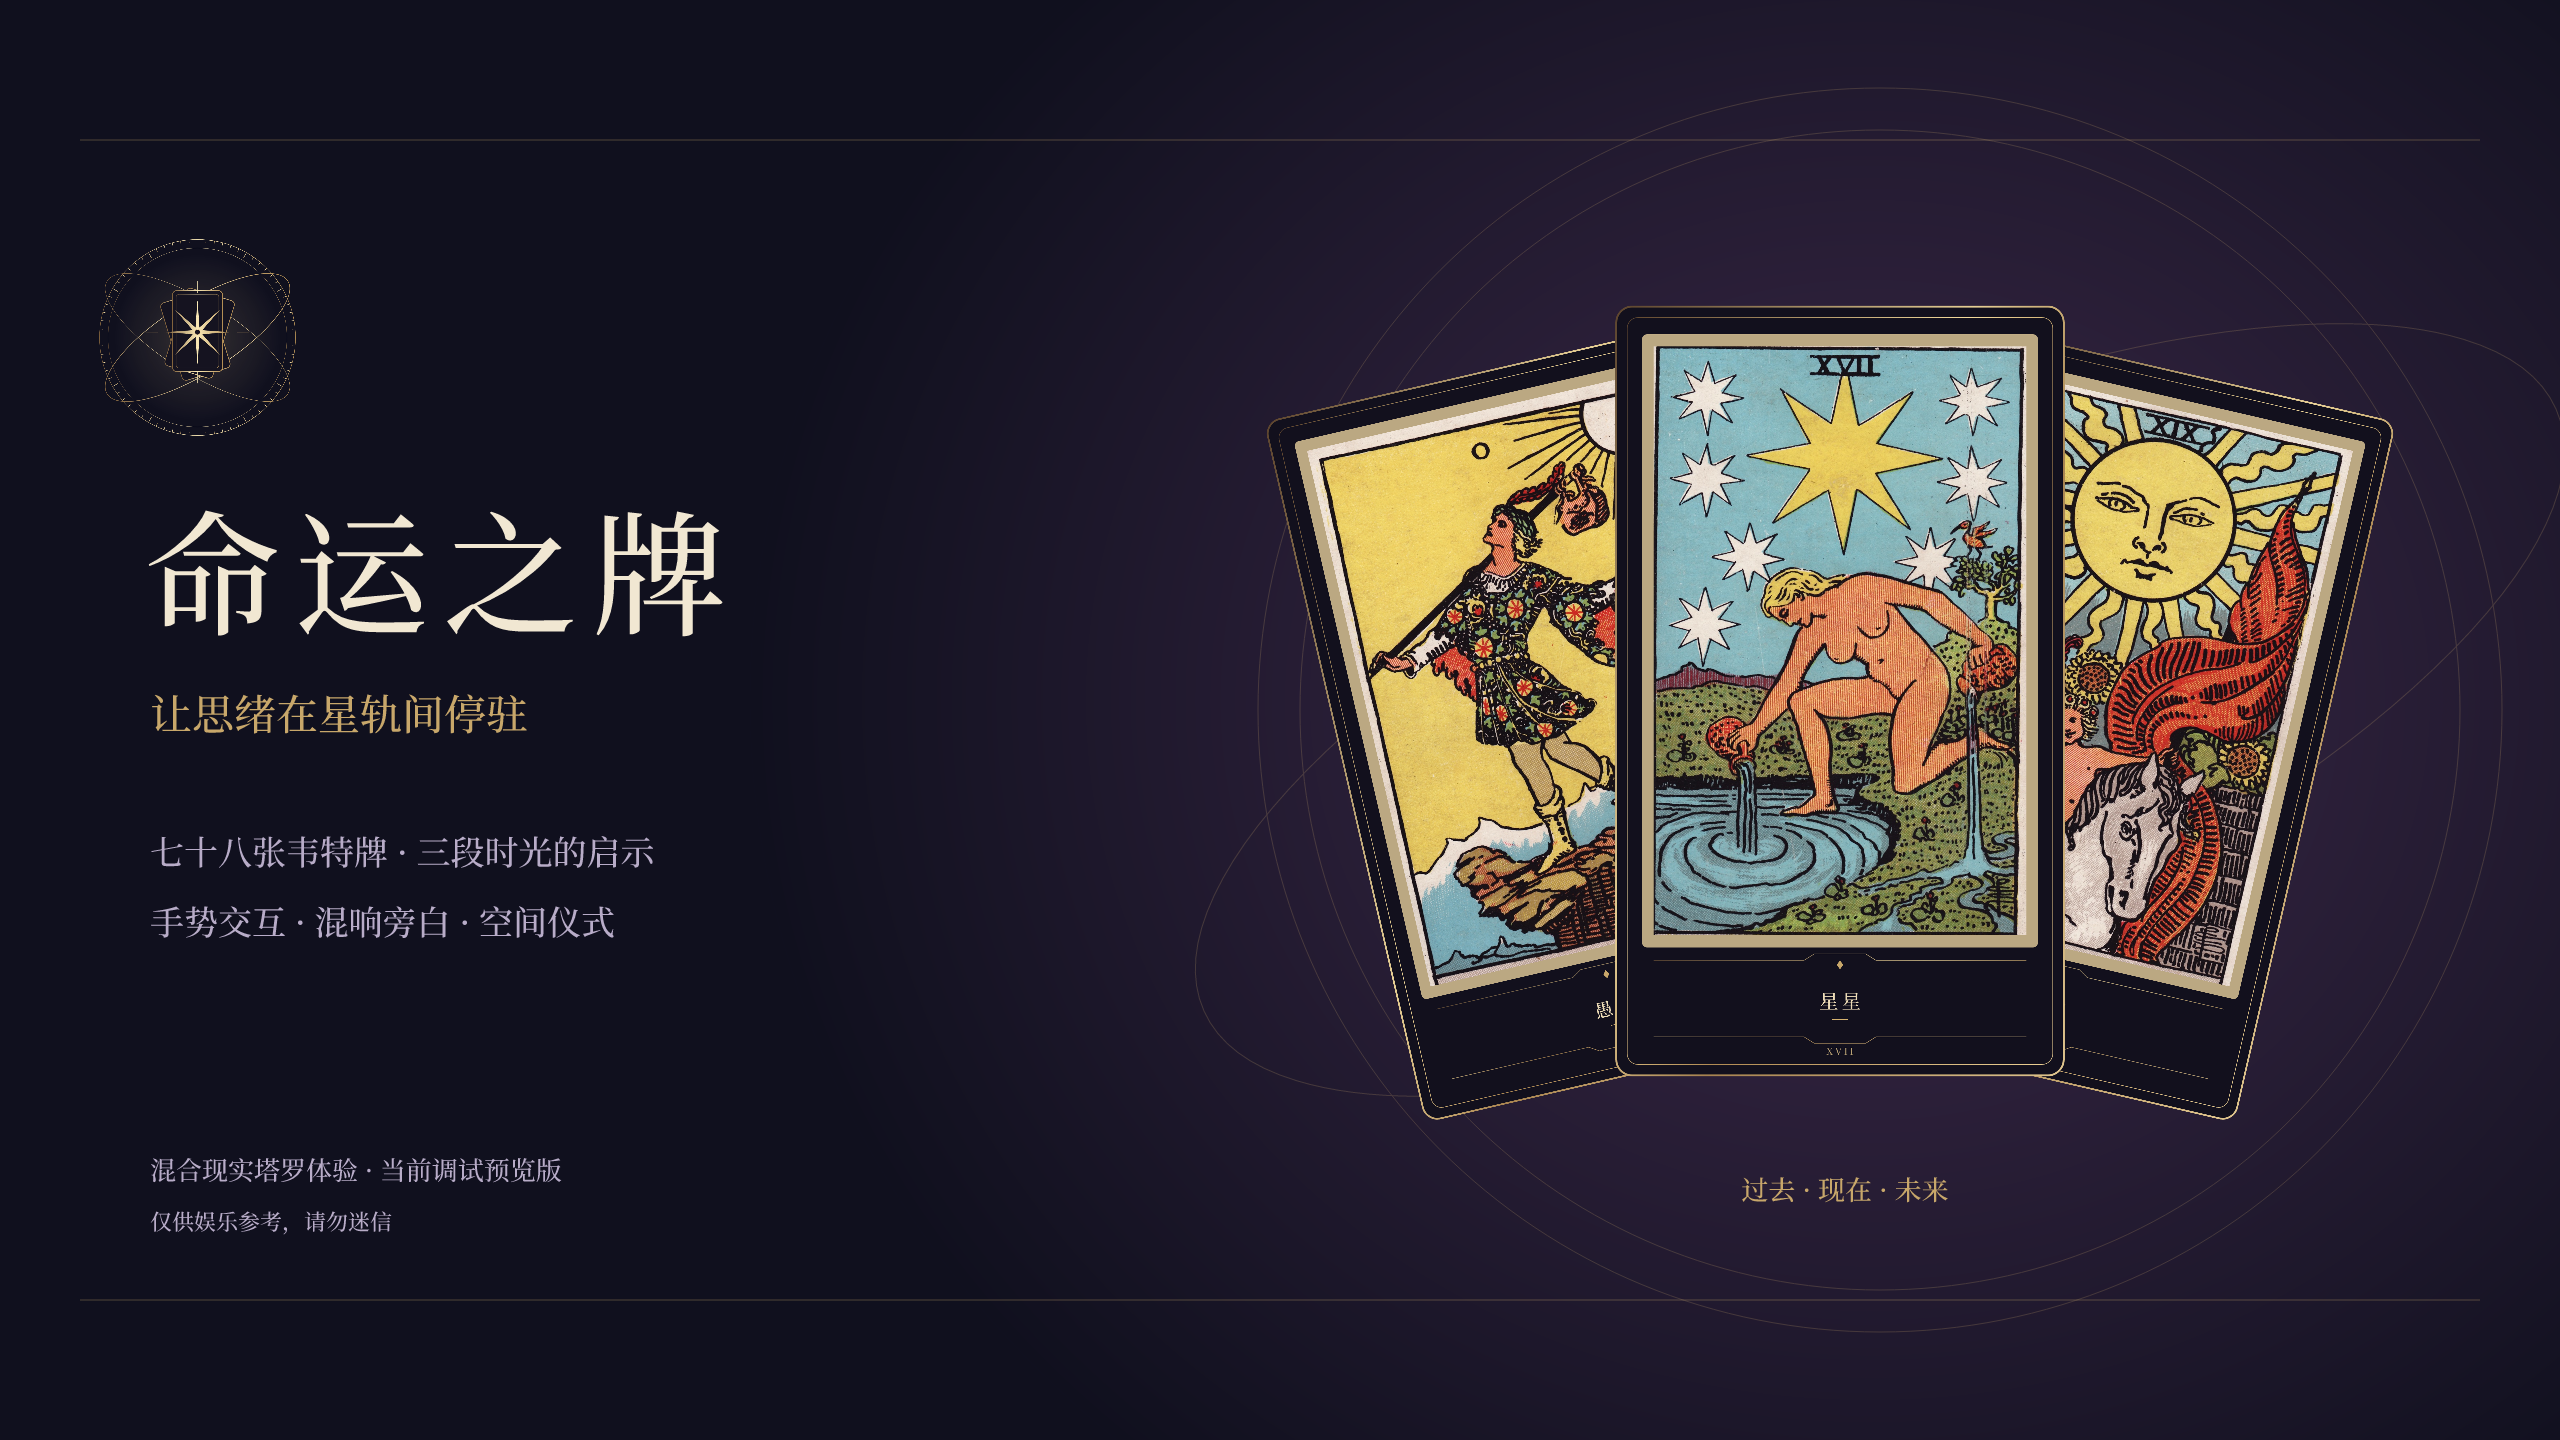
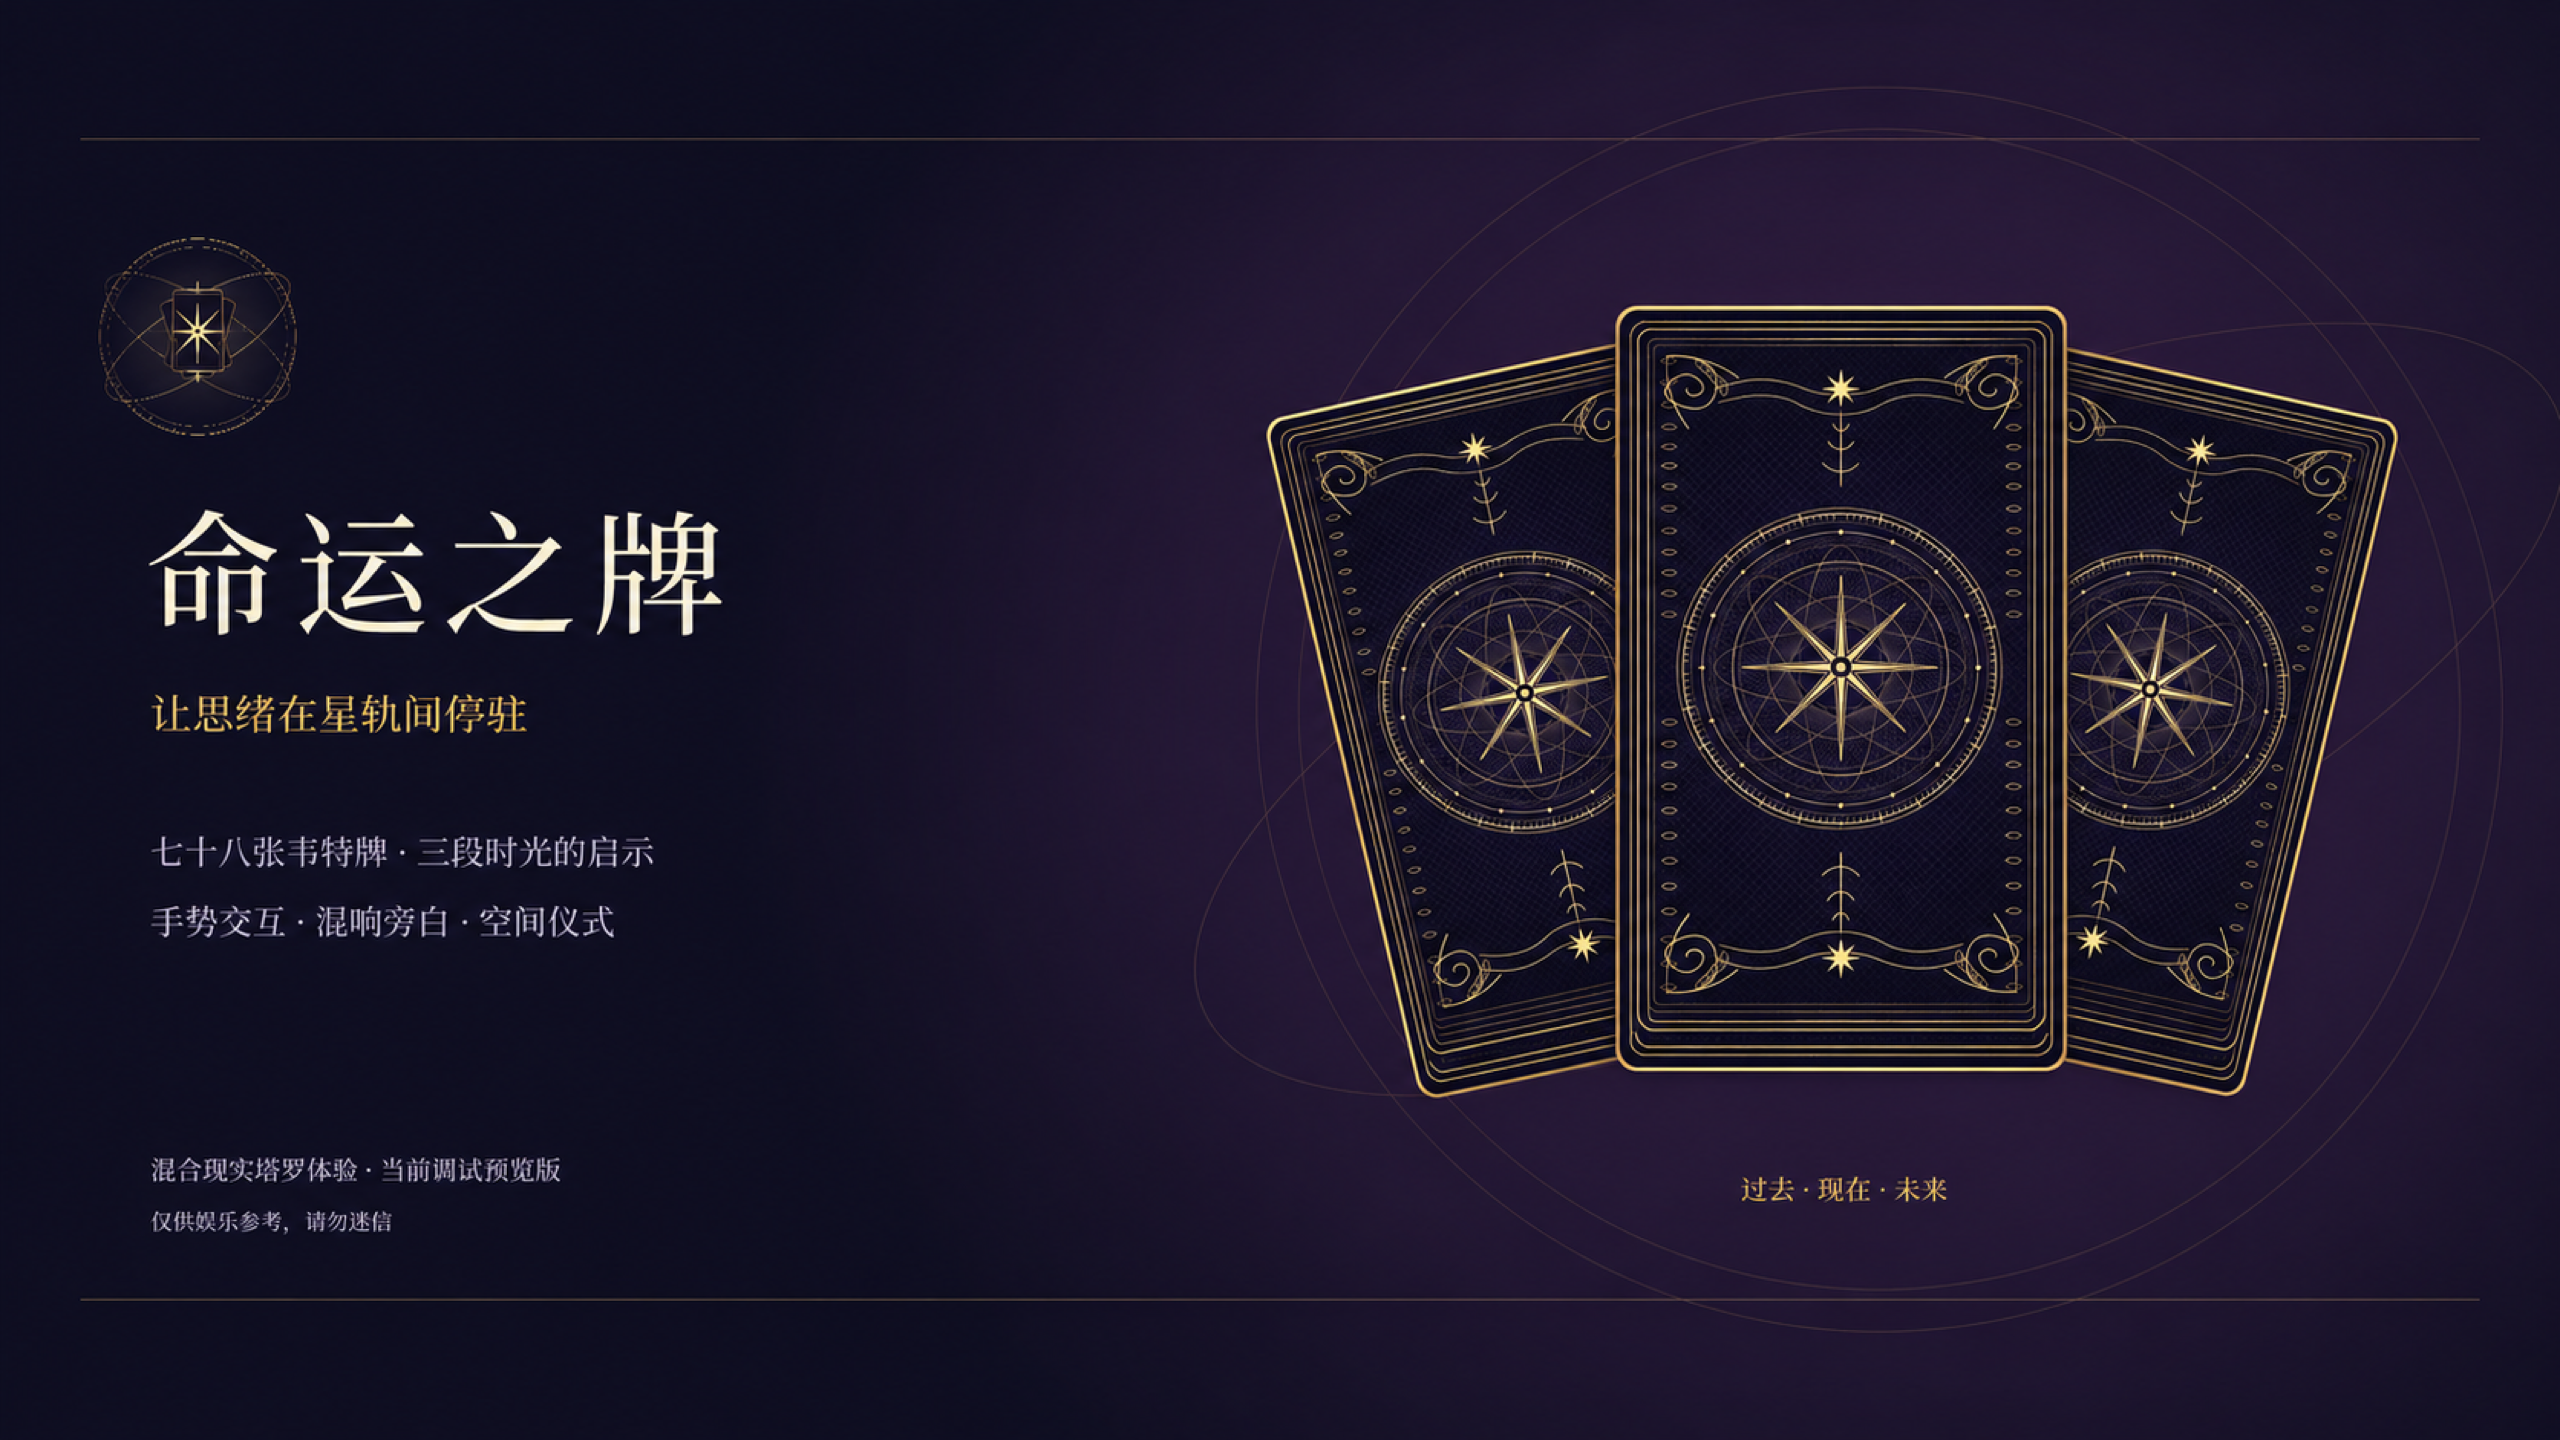
Replace submission artwork with card-back-only promotional images

diff --git a/docs/submission/填写指南.md b/docs/submission/填写指南.md
@@ -1,71 +1,39 @@
-# 命运之牌 · Vibe Lab 投稿填写指南
+# 命运之牌 · 投稿填写指南
 
-按Orbit Mission项目的同一份表单字段整理，日期2026-11-11。对应应用versionName1.0.1、versionCode2；当前交付为调试预览版。
+更新日期：2026-11-14。应用为1.0.7调试预览版（versionCode 8）；本次仅修订投稿素材。
 
-## 基本信息
-
-| 字段 | 建议填写 |
+| 字段 | 填写内容 |
 | --- | --- |
 | GitHub仓库 | https://github.com/DDDCC5/CardsOfFate |
-| 完整Commit ID | `091e1ca1b93d12b7317005e4b33fc03a52d90930` |
-| 技术栈 | PICO Spatial SDK；Kotlin / Android原生；Compose SpatialUI |
-| 内容类型 | 应用；进一步分类优先休闲娱乐/生活方式 |
-| 特性标签 | 混合现实、手势追踪、视线追踪（验收范围见下文） |
-| 版本名称 | V1.0.1 |
+| 应用源码Commit | `235aa9b9aba26e5b0855b8ce85f83e781e18d6b3` |
+| 版本 | V1.0.7 |
+| 包名 | com.example.cardsfate |
+| 技术栈 | Kotlin / SpatialUI Compose / PICO Spatial SDK BOM 6.1.9 |
+| 作品名称 | 中文表单填命运之牌；英文表单单独填Cards of Fate |
+| 特性标签 | 混合现实、手势追踪、视线追踪；按实际菜单匹配 |
+| 内容分类 | 优先休闲娱乐/生活方式；按实际菜单匹配 |
 | AI IDE | Codex |
-| 主要AI模型 | GPT-6.1 Sol；沿用Orbit中你已确认的型号，本项目如使用其他型号须修改 |
-| 队友 | 没有实际人类队友则留空 |
-| 作品名称 | 命运之牌；英文表单单独填Cards of Fate |
-| 内容标签 | 优先匹配休闲娱乐、塔罗、自我探索等实际选项 |
+| 主要AI模型 | GPT-6.1 Sol；沿用Orbit项目已确认字段，以实际会话为准 |
+| 队友 | 无实际人类队友则留空 |
 
-平台下拉菜单未展开，分类与标签须按实际可选项匹配。MR、手部与眼动已接入；手部和眼动在本轮实机返回SUPPORTED，但完整仪式尚未实机验收。不填写“手柄”“Avatar”“表情模拟”“混合现实捕捉”。
+完整可复制文案见填写字段.json、作品简介.txt、版本说明.txt和一句话简介.txt。
 
-## 一句话简介（39字符，限制80）
+## 审核图片替换
 
-在真实空间中以双手洗牌、抽取三张韦特塔罗牌，伴随混响旁白回看过去、此刻与未来。
+| 用途 | 文件 | 说明 |
+| --- | --- | --- |
+| 图标 | 01-icon-1024.png | 保留已确认的抽象标记，1024×1024 |
+| 宣传海报 | 02-poster-2560x1440.png | 纯牌背、星盘和文字；2560×1440 PNG，小于5MB |
+| 详情展示图 | 03-features-2560x1440.png | 纯牌背流程展示；2560×1440 PNG，小于5MB；已标明“功能展示图 · 非实机截图” |
 
-## 版本说明（84字符，限制1000）
+先移除后台原海报和所有含裸露牌面的详情图，再上传新图，检查封面、缩略图和详情图列表中没有旧图后保存。新图均为宣传设计，不用于证明实机运行效果。如果平台该栏目只接受实机截图，请移除旧截图并另行补充无裸露牌面的真实运行截图，不要将功能展示图作为实机截图提交。
 
-1.0.1 图标修正版：核实普通入口图标已打包，修复PICO空间桌面仍引用模板图标的问题，统一为确认的塔罗标记并移除旧模板图层。保留当前调试预览版的全部功能与验收范围。
+旧海报包含的星星、太阳牌面已从本轮海报中移除。本轮资料包不含牌面人物或真实房间照片；旧投稿包已移出当前可提交目录。图片生成后经人工式视觉检查，未见人物或裸露内容；平台最终审核结果以平台为准。
 
-## 作品简介
+## 验证范围
 
-命运之牌是一款面向PICO Spatial的混合现实塔罗体验应用。以真实环境为背景，让塔罗牌、水晶、烛光、星盘与符文悬浮在空间中，用双手完成一场关于过去、现在与未来的三牌仪式。
+[下载APK与验证记录](https://github.com/DDDCC5/CardsOfFate/releases/tag/v1.0.7-debug)。1.0.7已通过构建、60项单元测试、素材打包与独立UI风格检查；实机观察到三次独立抽牌和三张牌逐张翻开。更多环境及长时间性能仍需验证。通用静态脚本存在既有Mixed Stage和SDK通配导入识别报错，未标记为全部通过，详见仓库README与发布记录。
 
-从一个问题开始
-在混响旁白引导下默念心中的问题，观赏78张韦特塔罗牌的环绕展示，再通过手势聚拢、交错洗牌和选择三张牌。支持官方手部追踪和眼动辅助；眼动不可用时可使用纯手势指向与点击。
+本次未修改APK和应用内78张牌面。应用源码Commit保持上述1.0.7版本，main另行更新投稿文案与图片。第三方来源见THIRD_PARTY_NOTICES.md。
 
-逐张翻开，逐段思考
-三张牌从左到右对应过去、现在与未来。依次翻牌后，界面展示牌名、正逆位与解读，配合同步旁白。系统以本地关键词模板组合简短总结，并保留最近10次记录，方便回看。
-
-沉浸的仪式氛围
-自定义暗色金线界面、分层启动动画、统一纹样牌背与浮空装饰共同构建体验。界面与配音跟随系统语言切换为简体中文或英文，每次只显示一种语言。
-
-当前为调试预览版：已完成构建、34项单元测试和部分实机界面验证，手部与眼动返回支持状态。本轮设备尚无可用系统空间平面，开始仪式会等待系统空间数据；完整手势流程、真实物体避让、透视暗层与持续性能仍待实测。应用不新增扫描流程，直接读取系统已有平面。
-
-所有占卜内容仅供娱乐与自我思考参考，请勿迷信。运行需要兼容的PICO Spatial环境。
-
-## 图片与视频
-
-| 表单项 | 文件或处理说明 |
-| --- | --- |
-| 作品图标 | 01-icon-1024.png，1024×1024，PNG，小于4MB；沿用已确认的启动标记 |
-| 宣传海报 | 02-poster-2560x1440.png，2560×1440，16:9，PNG，小于5MB；使用确认的牌面与标记排版，属于宣传设计 |
-| 详情页截图 | 本地资料包中的03-runtime-systems-1920x1080.png；真实头显运行画面，1920×1080、16:9。拍到房间和电脑屏幕，请自行确认后再上传；未放入公开仓库 |
-| 详情页截图尺寸要求 | Orbit表单建议2560×1440；现有实机图为1920×1080，未伪造或重绘为更高分辨率。若表单严格要求2560×1440，需重新采集后上传 |
-| 详情页视频 | 待准备真实流程录屏；没有将概念图或素材预览当作运行视频 |
-
-公开资料不含真实房间照片。海报展示的卡牌为已制作的设计素材，不用于证明完整手势流程已通过验收。
-
-## 版本与验收说明
-
-- APK下载：https://github.com/DDDCC5/CardsOfFate/releases/tag/v1.0.1-debug
-- 运行依赖PICO Spatial环境。系统需已有当前房间的空间数据；设备返回0个平面时，“开始仪式”保持等待。
-- 34项单元测试和打包检查已通过；完整洗牌/抽牌/翻牌、真实物体避让、透视暗层、持续性能及逐屏设计一致性仍待验收。
-- 公开发布前已排除本机配置、密钥、插件/SDK实现、生产环境和原始设备日志。
-- 第三方牌图、字体与配音工具来源见仓库THIRD_PARTY_NOTICES.md。
-- 此文件仅提供填写资料，没有代你向投稿平台提交。
-
-投稿Commit固定到应用版本源码；main后续只补充投稿资料，应用代码与此Commit一致。
-
-1.0.1更新：修复PICO空间图标仍引用模板图案的问题，并核实正式图标已进入APK。
+本轮未在投稿后台替换或重新提交；此资料包用于替换被反馈的图片。公开视频仍需真实录屏，不以宣传图冒充运行视频。

diff --git a/README.md b/README.md
@@ -4,6 +4,10 @@ PICO Spatial 平台的 MR 塔罗体验应用。包名 `com.example.cardsfate`，
 
 **当前版本：1.0.7 调试预览版。** [下载 APK](https://github.com/DDDCC5/CardsOfFate/releases/download/v1.0.7-debug/cards-fate-1.0.7-debug.apk) · [版本说明](docs/releases/1.0.7.md) · [投稿资料](docs/submission/填写指南.md)
 
+## 投稿图片更新（2026-11-14）
+
+[新版海报](docs/submission/02-poster-2560x1440.png)与[功能展示图](docs/submission/03-features-2560x1440.png)已改为纯牌背和抽象星盘元素，移除旧海报中的人物牌面。两图均为2560×1440，功能图明确标注非实机截图。[替换说明](docs/submission/填写指南.md)。本次只更新投稿资料，APK保持1.0.7。
+
 ## 体验与实现
 
 - 78张牌缩小15%后竖立朝向用户环绕展示；默念结束后自动翻背整齐叠放。点按牌堆三次，每次抽出一张，再继续过去/现在/未来解读。
